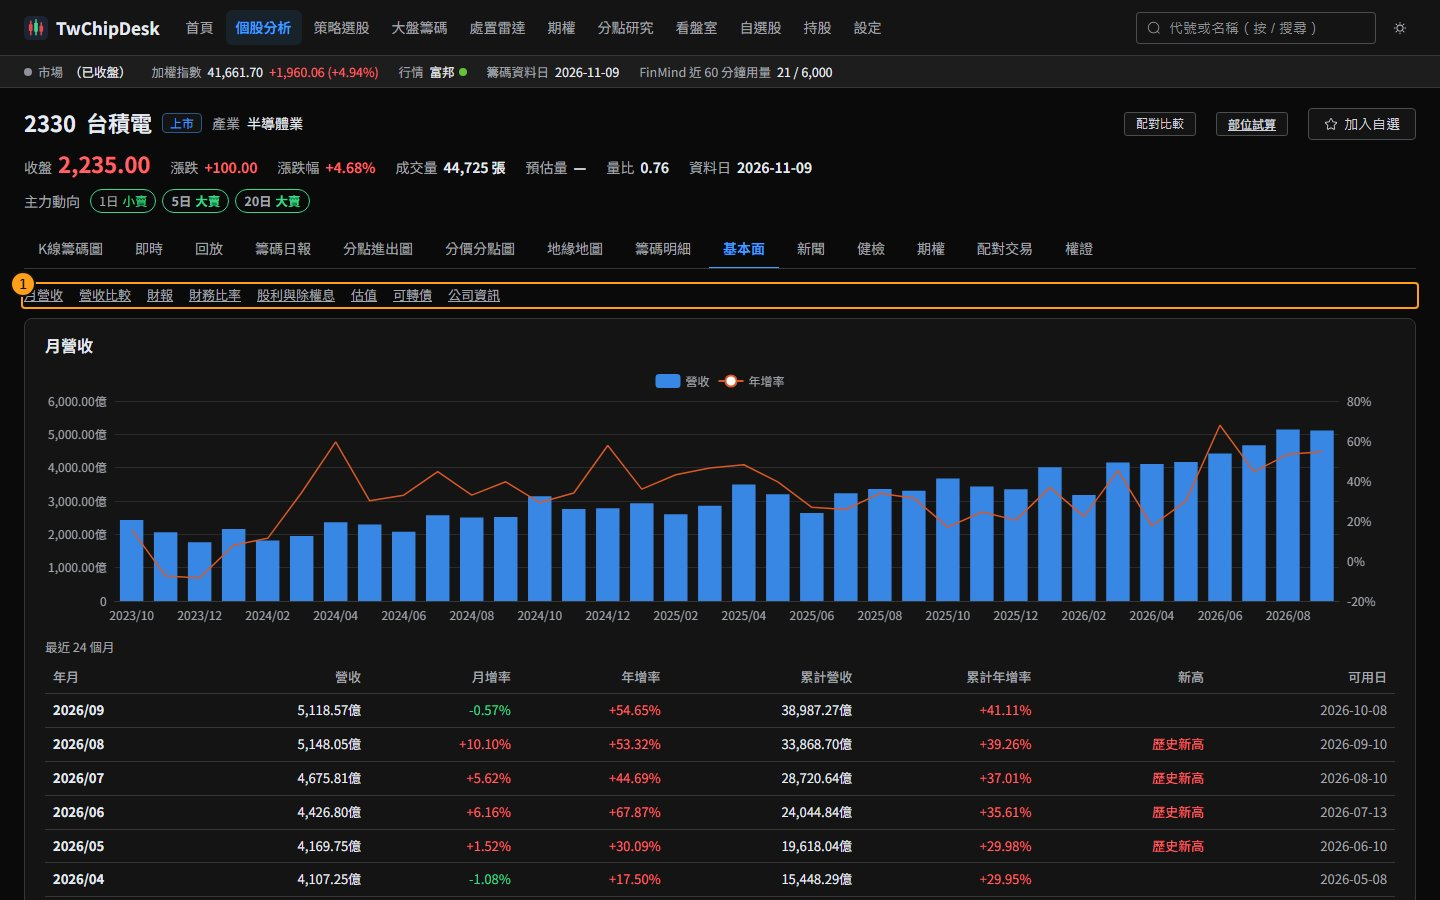
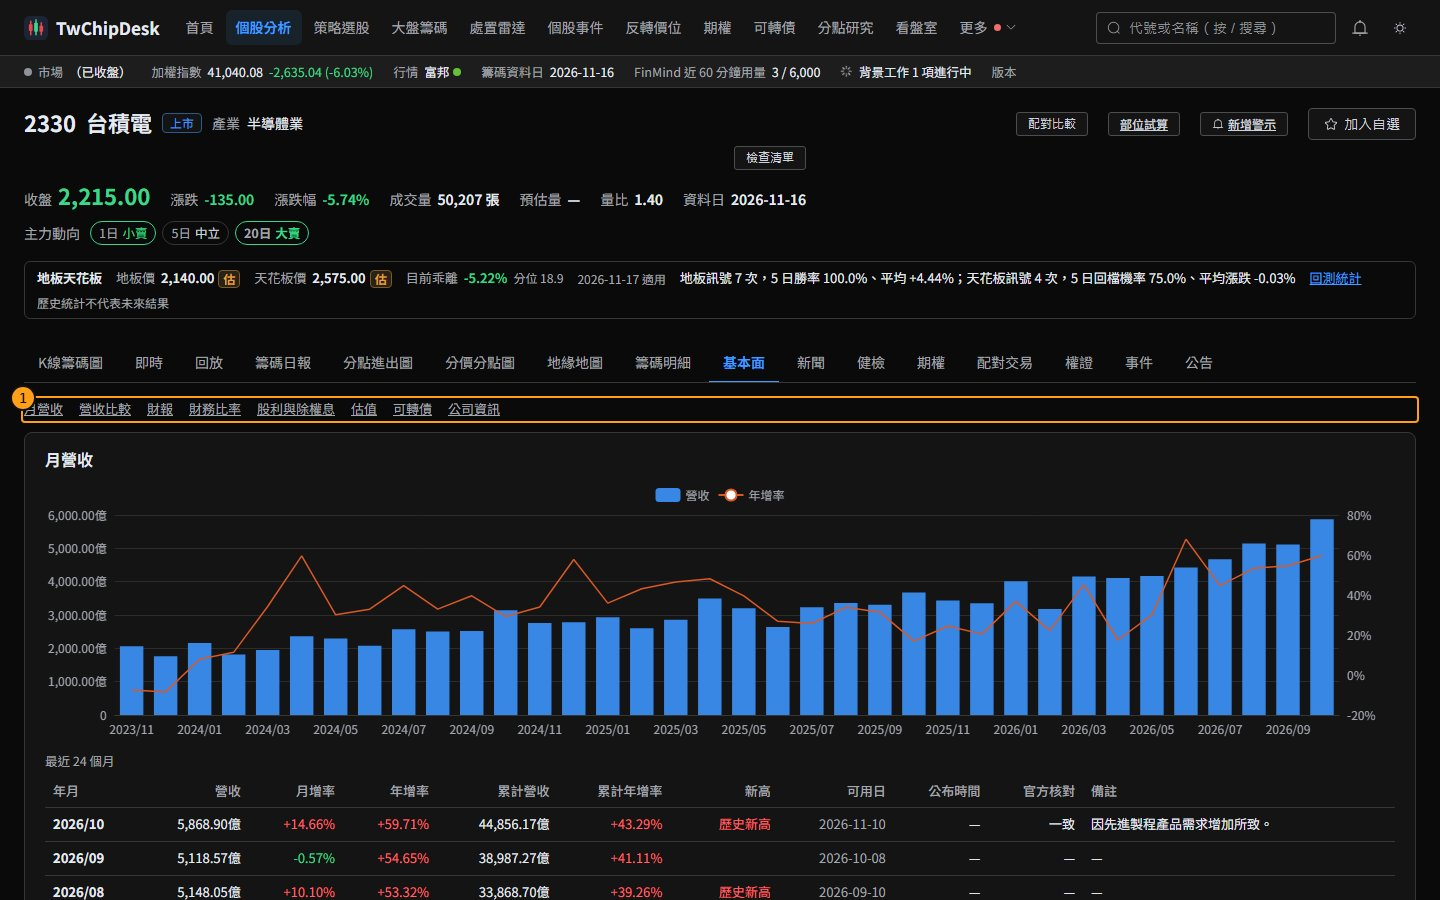
手冊同步：月營收表格的公布時間、官方核對與備註

diff --git a/docs/stock/fundamental.md b/docs/stock/fundamental.md
@@ -19,7 +19,15 @@
 ## 各區塊內容
 
 ### 月營收
-柱狀為月營收、折線為年增率。下方表格列出最近 24 個月的「營收」「月增率」「年增率」「累計營收」「累計年增率」「新高」（「歷史新高」或「N 個月新高」）與「可用日」。
+柱狀為月營收、折線為年增率。下方表格列出最近 24 個月的「營收」「月增率」「年增率」「累計營收」「累計年增率」「新高」（「歷史新高」或「N 個月新高」）、「可用日」、「公布時間」、「官方核對」與「備註」。
+- 「可用日」是選股與回測使用的日期（營收入庫日，休市日入庫的算進前一個交易日），不受「公布時間」影響。
+- 「公布時間」是本系統第一次在證交所、櫃買中心的每月營業收入彙總表看到這個月營收的時間範圍，不是公司實際上傳的精確時間。寫法與[事件行事曆](../events/calendar.md)的「公布時間」相同：兩次抓取在同一天時寫「公布 11/10 16:00 前」，跨天時寫「公布 11/10」，只有日期時也寫「公布 11/10」；滑鼠移上去（手機點一下）看區間。這一欄只顯示官方的時間，沒有官方資料的月份顯示「—」。
+- 「官方核對」是彙總表的營收數字與每天入庫的月營收數字比對的結果：「一致」、「不一致」（相差超過 0.1%；同一格下方用小字列出官方數字，例如「官方 29.50億」）、「官方有、入庫資料還沒有」、「日期矛盾」（入庫日期與官方公布時間對不上）；還沒核對或沒有官方資料時顯示「—」。
+- 「備註」是公司申報月營收時填寫的說明（例如營收增減的原因、是否含停業單位），來自證交所、櫃買中心的每月營業收入彙總表，照原文顯示；公司沒有填寫時顯示「—」。
+- 備註需要設定頁「補充來源」區塊的「官方開放資料事件來源」開啟，每天（含假日）08:00、16:00、22:00 抓取（時間可在設定頁修改）。彙總表只提供最新一個月，所以 2026 年 10 月營收起才有備註，更早的月份都是「—」。公司事後修改備註時，下一次抓取後跟著更新。
+- 「營收」等數字仍以每天入庫的月營收資料為準；備註、公布時間與官方核對只是補充說明。公布時間與官方核對同樣需要開啟「官方開放資料事件來源」，從開啟那天起累積，更早的月份都是「—」。
+- 備註也會出現在 [K線籌碼圖](kline.md)「營收公布」標記的浮動資訊與[個股事件](events.md)時間軸的月營收列。
+- 手機寬度時表格可以左右滑動看所有欄位。
 
 ### 營收比較
 依最新月營收列出同族群規模最大的公司：最新月份、營收、年增率與「近 12 個月年增率」走勢（中線為 0%）。

diff --git a/docs/stock/events.md b/docs/stock/events.md
@@ -14,7 +14,7 @@
 |---|---|---|
 | 1 | 「區間」「成本」「報酬」 | 與[事件行事曆](../events/calendar.md)相同；換了以後時間軸的「區間淨報酬」與統計卡一起更新。 |
 | 2 | 連結 | 「K 線事件標記」（K線籌碼圖，事件標記在圖上）、「權證（N 檔）」（權證分頁）、股期（有股票期貨時，開啟期現套利的除息以期代現）、「個股事件頁」。 |
-| 3 | 「事件時間軸」 | 新到舊；未來事件標「未來」，推算的日期標「估」；過去事件列出所選區間的淨報酬，或沒有計入的原因（例如結構事件剔除、尚未到出場日）。月營收與財報另列公布時間與「來源：」（「官方」「FinMind 入庫日」或「估」），數值或日期待確認時加「待核對」。法說會、股東會、庫藏股決議的子資訊與[事件行事曆](../events/calendar.md#欄位)相同，滑鼠移上去（手機點一下）看地點全文、擇要訊息或買回目的。 |
+| 3 | 「事件時間軸」 | 新到舊；未來事件標「未來」，推算的日期標「估」；過去事件列出所選區間的淨報酬，或沒有計入的原因（例如結構事件剔除、尚未到出場日）。月營收與財報另列公布時間與「來源：」（「官方」「FinMind 入庫日」或「估」），數值或日期待確認時加「待核對」。月營收有官方備註時，在說明後面另列「備註：」與公司填寫的原文（與[基本面](fundamental.md)月營收表格的「備註」相同；只是顯示，不影響統計）。法說會、股東會、庫藏股決議的子資訊與[事件行事曆](../events/calendar.md#欄位)相同，滑鼠移上去（手機點一下）看地點全文、擇要訊息或買回目的。 |
 | 4 | 「各種事件的歷史統計」 | 這檔有樣本的每種事件一張卡：摘要、最近 3 年與更早、逐日表（T−5～T+5）、平均路徑（T−10～T+20，P25～P75 帶狀）。N 少於 5 標「樣本少」。法說會、股東會、庫藏股決議的卡片註明「資料自 YYYY-MM-DD 起累積」；法說會與股東會另列「最近 5 次」的日期、時間、常會或臨時會與地點（沒有地點時寫「地點未公布」）。時間軸上有這三種事件但還沒有可統計的樣本時，卡片寫「還沒有可統計的樣本」。 |
 | 5 | 「歷年除權息」 | 除權息日、種類、現金與股票股利、除權息前收盤、參考價（進位到升降單位、開盤與收盤對參考價用的值；滑過顯示未進位的理論參考價）、權值率、息值率、開盤與收盤對參考價、填權息天數（未填顯示「未填」）。 |
 

diff --git a/docs/stock/kline.md b/docs/stock/kline.md
@@ -131,7 +131,7 @@
 ![事件選單](../images/stock/kline-events-menu.jpg)
 
 點「事件」可分別開關：
-- 「除息」「除權」「營收公布」「財報（法定期限）」：在 K 棒上方標「息」「權」「營」「財」。營收沒有公布日時以次月 10 日推估；財報為法定申報期限，不是實際公告日。滑鼠移到該根 K 棒，浮動資訊列會列出事件內容。
+- 「除息」「除權」「營收公布」「財報（法定期限）」：在 K 棒上方標「息」「權」「營」「財」。營收沒有公布日時以次月 10 日推估；財報為法定申報期限，不是實際公告日。滑鼠移到該根 K 棒，浮動資訊列會列出事件內容；「營收公布」的內容在月增、年增之後，有官方備註時加「；備註：」與公司填寫的原文（2026 年 10 月營收起才有，需要開啟「官方開放資料事件來源」）。備註只是補充說明，不改變標記的位置與「估」的判斷。
 - 「公告（重大訊息）」：在有公告的 K 棒上方標灰色小圓點「公」，同一根不論幾則都只有一個標記；日 K 標在發言日那一根（週末、假日的公告標在之後第一根），週 K、月 K 把同一週、同一月的公告加總。滑鼠移到該根 K 棒，浮動資訊列在事件說明之後（以「；」相接）列出「公告 N 則：［類別］主旨（MM-DD HH:mm）…」，最多 3 則、每則主旨最多 40 字，其餘以「另有 N 則」表示；主旨是公司公告原文。官方每天提供前一天的公告，公告自官方開放資料事件來源開啟那天起累積，沒有更早的標記。預設開啟；完整內容見[個股分析｜公告](material.md)。
 - 「注意／處置」：在 K 線下方標出注意日（官方公告為實心藍點、本系統重算的為灰點），處置期間的第一天與最後一天標「處」「迄」。
 - 「處置期間背景」：處置期間（含最近三年已結束的處置）的 K 棒以淺紅色背景標示，處置中的畫到最新一根。與「注意／處置」各自開關。
